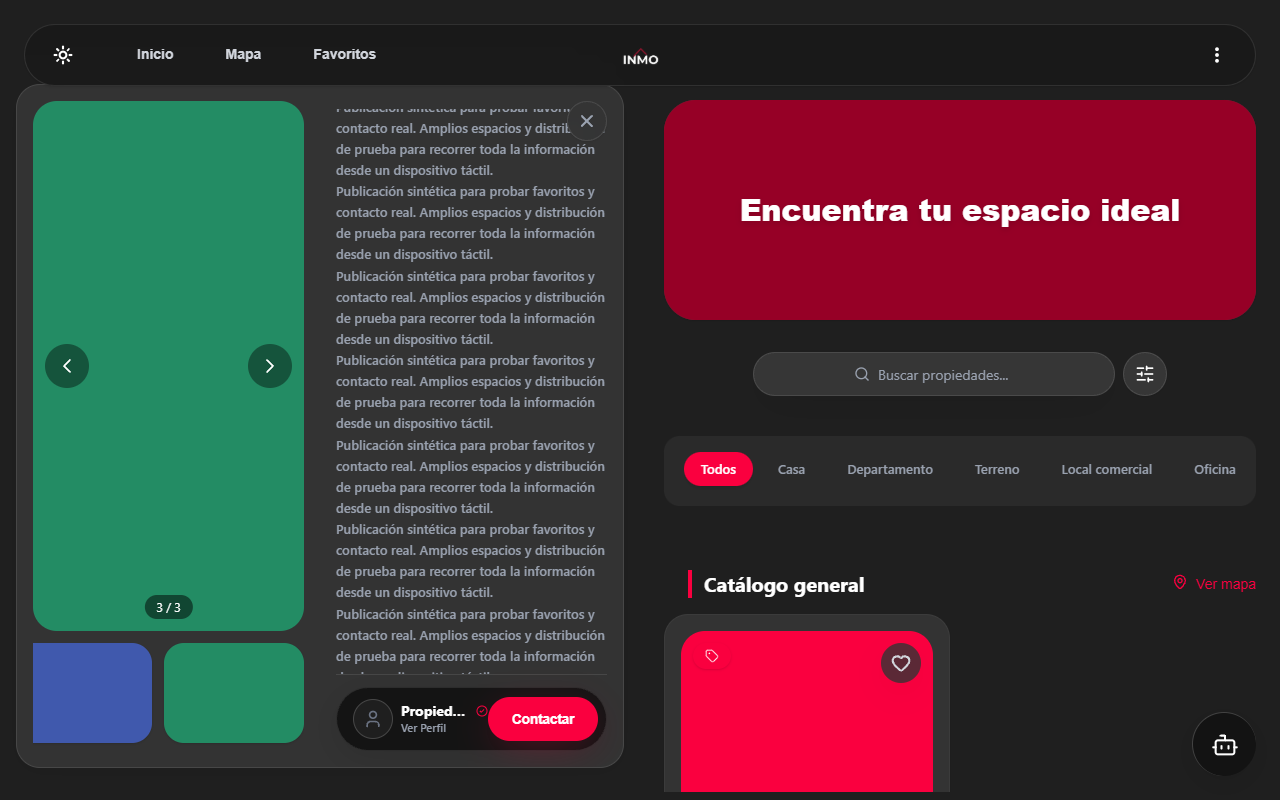
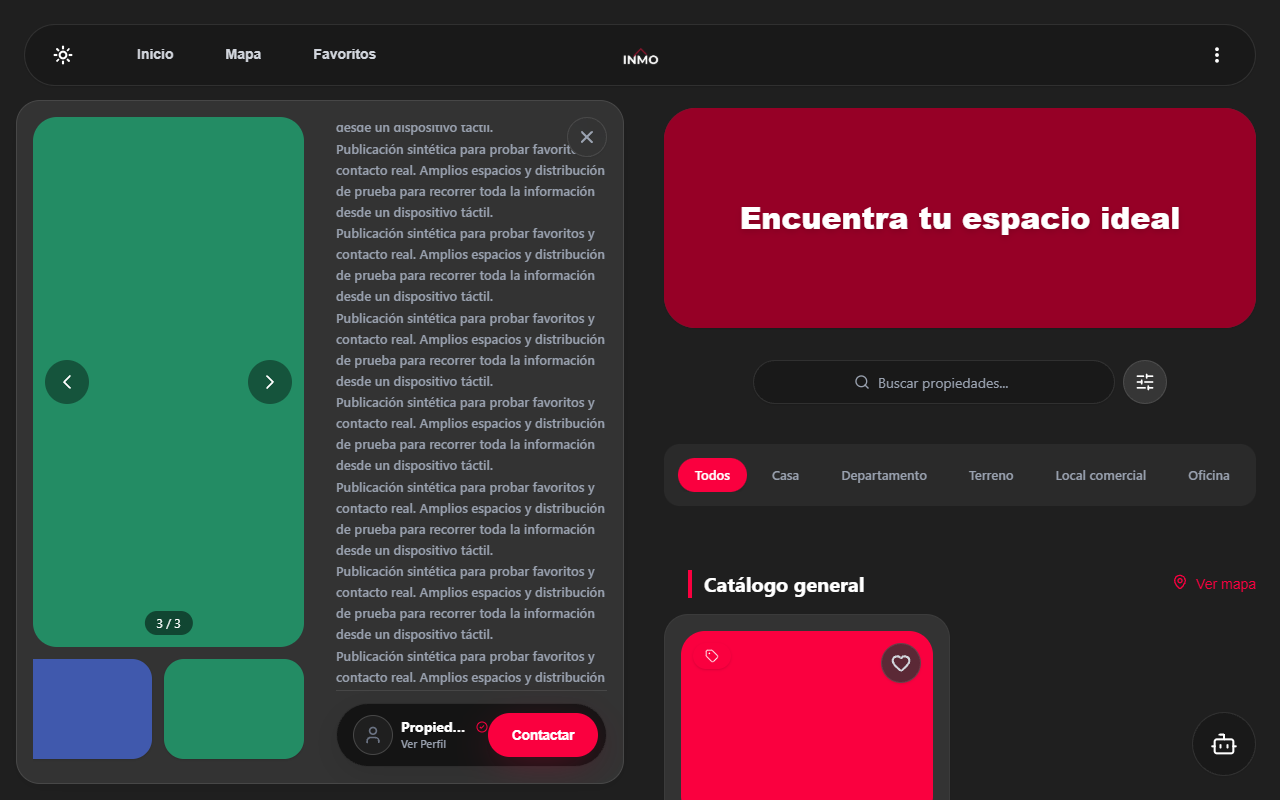
Documentar integración ef8666a y evidencia final en ambos frontends

diff --git a/docs/Integracion_INMO_3e6344e.md b/docs/Integracion_INMO_3e6344e.md
@@ -1,4 +1,4 @@
-# Integración de INMO hasta 3e6344e y navegación táctil
+# Integración de INMO hasta ef8666a y navegación táctil
 
 Entrega del 2026-10-06 en ambos frontends: `AIAM7420/Front_end_Inmobiliaria` y `angggsoft/inmo`. Sin modificaciones del backend, endpoints nuevos ni migraciones. No se accede a Railway ni se modifica EAM16.
 
@@ -10,7 +10,13 @@ Los 13 commits incorporados desde `6a4c88e` son `55188a1`, `fd53687`, `f3b8031`,
 
 Se aplica [estilo-inmo](../agent/skills/estilo-inmo/SKILL.md). Se conservan las píldoras, tarjetas, tipografías, tokens y distribución nuevos; los selectores nativos y las esperas artificiales del prototipo se sustituyen por controles compartidos y estados de consultas reales. Las adaptaciones autorizadas incluyen scroll, áreas táctiles, permisos, estados de API, ausencia de reseñas y mapas aproximados. Esta entrega no afirma una comparación automatizada píxel por píxel de todas las pantallas.
 
-La revisión concurrente del 2026-10-06 incorporó también `aea21a8`, `5646955` y `d84fb75958c34b16d5a7e8a195fe332d5ecfc96f`: estilos de cristal uniformes, filtros compactos, coincidencias del mapa y la nueva distribución de Mensajes. Se conserva su historial. La espera artificial del chat se sustituye por consultas reales, los filtros por el desplegable compartido y se mantiene un único cierre para conversación y asistente. Se repiten las suites afectadas antes de publicar.
+La revisión concurrente del 2026-10-06 incorporó también `aea21a8`, `5646955` y `d84fb75958c34b16d5a7e8a195fe332d5ecfc96f`: estilos de cristal uniformes, filtros compactos, coincidencias del mapa y la nueva distribución de Mensajes.
+
+Se incorporaron los 17 commits posteriores hasta `ef8666abab5af32ce9a4e7c5e3e06aae1e92faee`: `950b3b0`, `a5d1001`, `8f046b2`, `9f22f74`, `cb95173`, `05ad2d0`, `d77a7b6`, `0ad3ba3`, `abacbb7`, `3ad1e88`, `48e286c`, `ce62bfb`, `8f3dc75`, `c817b5e`, `8931103`, `fb2d426` y `ef8666a`. Son 33 commits originales en total, conservados en el historial. [Cambios posteriores](https://github.com/angggsoft/inmo/compare/d84fb75...ef8666a).
+
+Se adopta el fondo inmobiliario ilustrado de Mensajes, sus transiciones, selección, estilos de cristal, estados vacíos y confirmaciones de archivo/recuperación. El asistente se oculta en Mensajes según el diseño nuevo. Se conservan los nombres de ambos participantes, adjuntos privados, lectura y reconexión reales. Las esperas artificiales se sustituyen por consultas; los filtros mantienen el desplegable compartido y un portal que recibe toques incluso dentro de paneles transformados. Ante un `412`, se revisa la conversación afectada sin reenviar la operación ni perder el borrador.
+
+Los minimapas conservan cámara cenital y proyección Mercator, zoom y centrado, con controles de 44 px. Se utiliza nuestro ciclo de vida compartido en lugar de recrear el mapa al cambiar tema o recentrarlo en cada resize. La limpieza de nodos residuales del SDK permite reutilizar el contenedor sin avisos por contenido anterior. La navegación inferior dispone de espacio reservado en el perfil móvil: ya no cubre el botón Portafolio.
 
 ## Matriz de cambios y evidencia
 
@@ -26,6 +32,8 @@ La revisión concurrente del 2026-10-06 incorporó también `aea21a8`, `5646955`
 | Galería / fotos | Miniaturas inmediatamente debajo de la foto. Swipe horizontal, selección táctil, botones de 44 px y flechas de teclado. El desplazamiento vertical y el pinch no activan cambios de foto | Swipe principal, scroll horizontal, selección y botones después de swipe |
 | Catálogo dividido | Columnas y etiqueta de ubicación responden al ancho del panel, evitando tarjetas de unos 100 px en tableta | Anchura mínima de tarjeta comprobada durante el detalle abierto |
 | Mapas / tema | Se retiene la instancia, cámara, selección y geometría aproximada; no se dibujan las áreas rojas retiradas por el diseño nuevo | Cuatro cambios de tema con estilos retrasados y recuperación explícita de error |
+| Minimapa / interacción | Cámara cenital, proyección Mercator, zoom y centrado, controles de 44 px y gestos cooperativos que permiten recorrer el detalle | SDK real, tamaño del control y conservación del canvas tras cambios de tema |
+| Mensajes / interfaz y archivo | Fondo ilustrado nuevo; lista con selección y acceso por teclado; archivo/recuperación confirmados con la versión real; filtros en portal y nombres de ambos participantes | Scroll y filtros táctiles en 390/820 px; adjuntos, lectura, archivo, 412 con borrador preservado y reconexión |
 | Administración / chat | Pestañas uniformes conservadas y un único cierre de conversación. Archivo, mensajes y adjuntos existentes | Navegación protegida en ambos temas y tamaños; chat de ambos participantes |
 | Inventario / guardar orden | La respuesta confirmada actualiza orden y versiones; conserva papelera y refresca fichas privadas sin volver a descargar todas las páginas y fotografías | Regresión unitaria de caché y recorridos de orden, fotografías, publicación y conflicto `412` |
 
@@ -40,16 +48,18 @@ Resultados ejecutados en cada checkout:
 | Control | Frontend propio | INMO copia |
 | --- | --- | --- |
 | Unitarias | 47 pruebas en 17 archivos | 47 pruebas en 17 archivos |
-| Lint | 0 errores, 9 avisos | 0 errores, 9 avisos |
-| Build | TypeScript, Vite y PWA correctos; 103 entradas de precaché | TypeScript, Vite y PWA correctos; 103 entradas de precaché |
+| Lint | 0 errores, 10 avisos | 0 errores, 10 avisos |
+| Build | TypeScript, Vite y PWA correctos; 101 entradas de precaché | TypeScript, Vite y PWA correctos; 101 entradas de precaché |
 | Navegador | 25 casos de mapas/touch y 42 de regresión | 25 casos de mapas/touch y 42 de regresión |
-| Equivalencia | 102 archivos compilados comparados por SHA-256 con las mismas variables públicas | Sin diferencias con el build propio |
+| Equivalencia | 100 archivos compilados comparados por SHA-256 con las mismas variables públicas | Sin diferencias con el build propio |
 
 La ejecución completa de INMO copia detectó una espera excesiva al guardar el orden del inventario (41 casos correctos y uno fallido). Se corrigió la invalidación que recargaba páginas y fotografías sin cambios; se repitieron los tres recorridos afectados en ambos repositorios. Los recorridos táctiles se repitieron después de reservar espacio para el título y corregir el cierre tras scroll: un toque estacionario activa el botón una sola vez, mientras arrastres, pinch, cancelación y estado deshabilitado no lo activan. Estos reintentos se distinguen de las ejecuciones completas y no se contabilizan como casos adicionales.
 
 Una repetición del recorrido completo de publicación alcanzó su límite de 60 segundos con cientos de fixtures acumulados en la papelera. Se hizo paginada la limpieza de propiedades sintéticas `Casa navegador` mediante archivo y retirada con historial, antes y después de esas pruebas. Con esa corrección de aislamiento, el mismo recorrido pasó en 19,1 segundos sin aumentar su límite. El servidor E2E comprueba que la base sea exclusiva de pruebas antes de ejecutar cualquier limpieza.
 
-Persisten nueve avisos de lint relativos a efectos y exports de Fast Refresh, el aviso de tamaño del chunk del SDK de Mapbox y avisos de Recharts al medir paneles ocultos. No hubo excepciones de página en los recorridos táctiles. No se afirma una prueba en dispositivos físicos: se utilizaron Chrome, viewports y eventos táctiles nativos.
+La nueva revisión detectó un selector de prueba con el texto antiguo de resultados y una comprobación que contaba también la vista previa del mensaje como duplicado del historial. Se corrigieron los selectores sin cambiar los contratos. También se detectó el solapamiento móvil del botón Portafolio con la navegación inferior y se reservó su espacio; la regresión mide ambos límites tras cargar el perfil real. Se distinguen las ejecuciones completas y los reintentos afectados: el frontend propio obtuvo 41/42 regresiones y después pasó el caso de chat corregido, y 24/25 mapas antes de pasar los dos recorridos de perfil móvil/tableta. INMO copia ejecutó de nuevo ambas suites completas: 25/25 mapas en 2,7 minutos y 42/42 regresiones en 3,4 minutos. No se cuentan reintentos como casos adicionales.
+
+Persisten diez avisos de lint relativos a efectos y exports de Fast Refresh, el aviso de tamaño del chunk del SDK de Mapbox y avisos de Recharts al medir paneles ocultos. No hubo excepciones de página en los recorridos táctiles. No se afirma una prueba en dispositivos físicos: se utilizaron Chrome, viewports y eventos táctiles nativos.
 
 La API E2E utiliza exclusivamente MySQL de pruebas y comprueba su identidad antes de los recorridos. Archivos, correo y Stripe utilizan proveedores de memoria. Los mapas ejecutan el SDK real de Mapbox/WebGL con estilos locales controlados, incluyendo cargas retrasadas y errores; no constituyen una prueba del proveedor remoto. La prueba adicional de paginación intercepta únicamente las páginas del portafolio para producir un fallo recuperable; las consultas de perfil, detalle y fotografías conservan la API real aislada.
 
